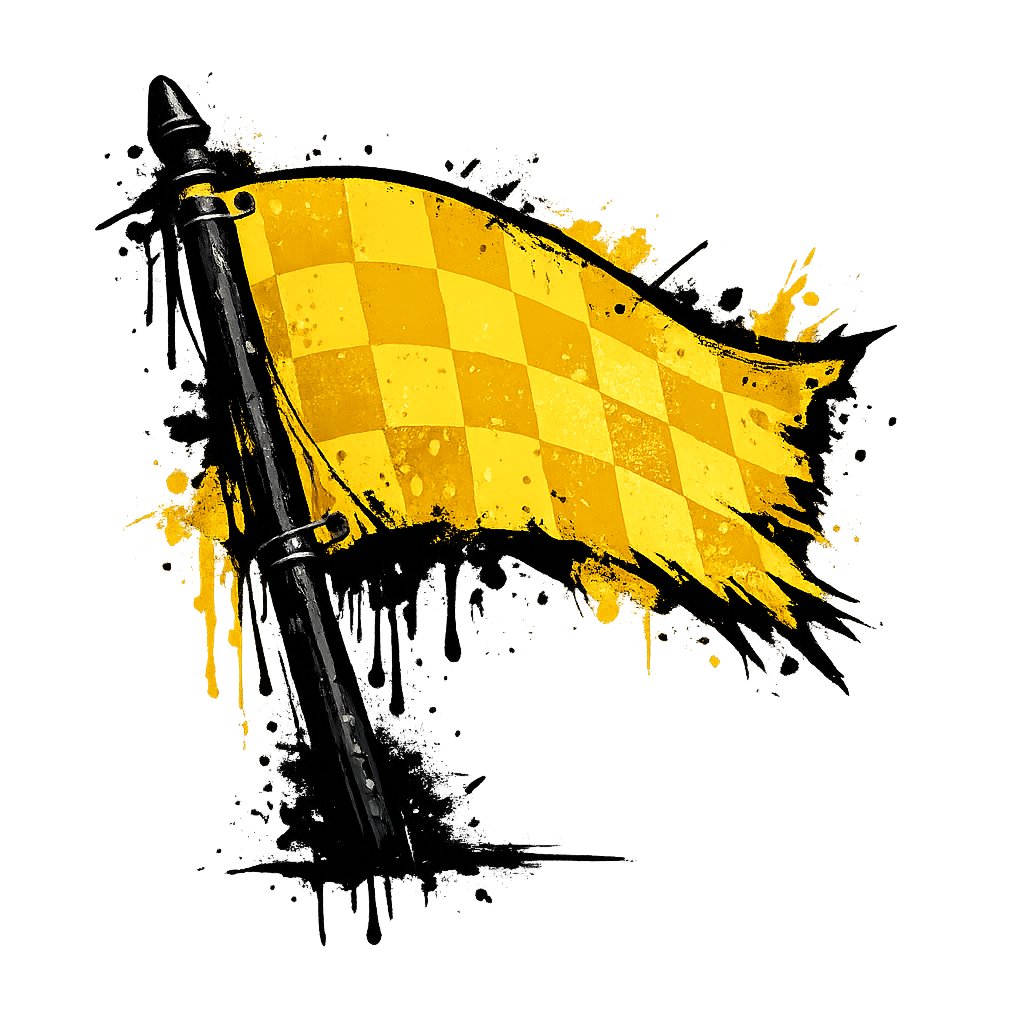
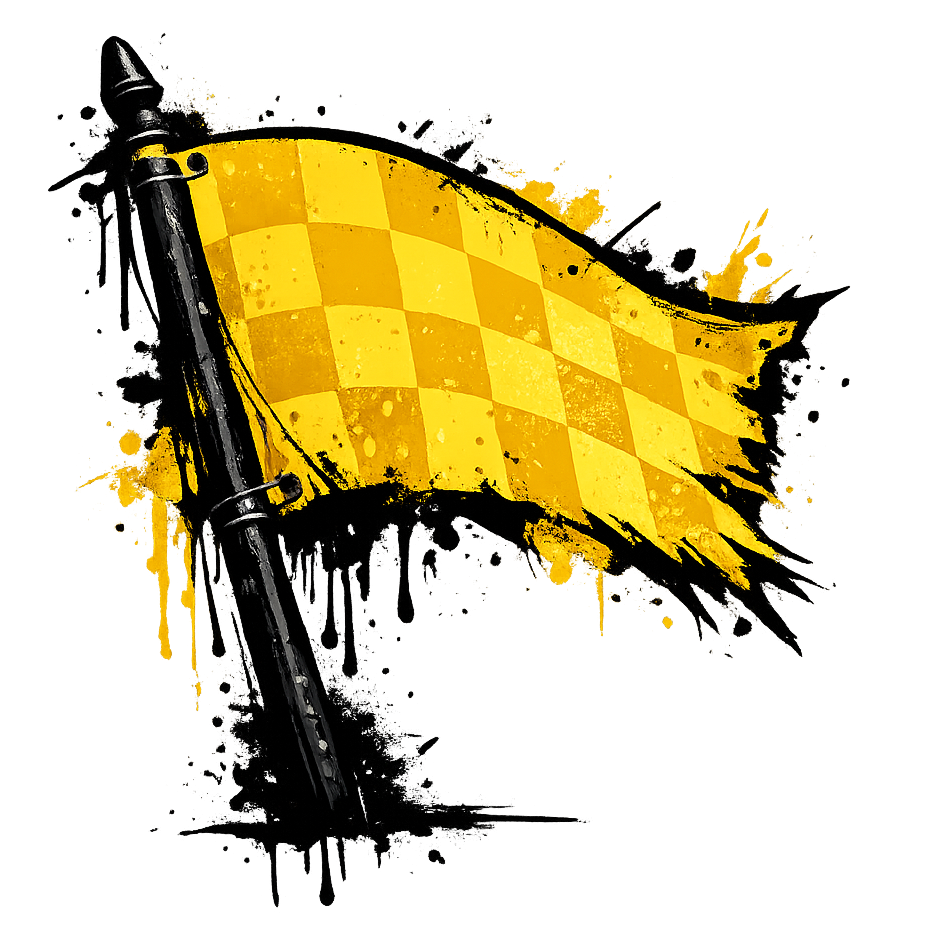
fix / accessibility and display improvements

Changed region(s): [[0.0618, 0.0309, 0.8956, 0.9574]]

diff --git a/src/features/map/components/MapFilters/MapFilters.tsx b/src/features/map/components/MapFilters/MapFilters.tsx
@@ -30,6 +30,17 @@ export function MapFilters({ spotTypes, checkedTypes, setCheckedTypes, showOnlyF
             : setCheckedTypes([]);
     }
 
+    const getTextColor = (type: SpotType) => {
+        if (type === "greenway") return "text-[#bcd004]";
+        else return "text-white";
+    }
+
+    const handleFavorites = () => {
+        const filter = (!showOnlyFavorites)
+        setShowOnlyFavorites(filter);
+        if (filter === true) setCheckedTypes(spotTypes);
+    }
+
     const allChecked = checkedTypes.length === spotTypes.length;
 
     return (
@@ -47,7 +58,7 @@ export function MapFilters({ spotTypes, checkedTypes, setCheckedTypes, showOnlyF
                     </span>
                 </label>
                 {spotTypes.map(type => (
-                    <label className="map-label" key={type}>
+                    <label className={`map-label ${getTextColor(type)}`} key={type}>
                         <input
                             type="checkbox"
                             checked={checkedTypes.includes(type)}
@@ -62,7 +73,7 @@ export function MapFilters({ spotTypes, checkedTypes, setCheckedTypes, showOnlyF
                         <input
                             type="checkbox"
                             checked={showOnlyFavorites}
-                            onChange={() => setShowOnlyFavorites(!showOnlyFavorites)}
+                            onChange={handleFavorites}
                             value={"favorites"}
                         />
                         <span className="text-text-secondary">

diff --git a/src/components/Navbar/Navbar.tsx b/src/components/Navbar/Navbar.tsx
@@ -12,7 +12,6 @@ import "./Navbar.css";
 export function Navbar() {
     const { user, profile, loading } = useAuth();
     const location = useLocation();
-    const getTabIndex = (path: string) => location.pathname === path ? -1 : 0;
     const menuToggleRef = useRef<HTMLInputElement>(null);
     const navigate = useNavigate();
     const [expanded, setExpanded] = useState<boolean>(false)
@@ -22,6 +21,8 @@ export function Navbar() {
             menuToggleRef.current.checked = false;
         }
     }, [location.pathname]);
+
+    const getTabIndex = (path: string) => location.pathname === path ? -1 : 0;
 
     const handleSignOut = async () => {
         await signOut();
@@ -49,7 +50,11 @@ export function Navbar() {
             </label>
             <ul id="main-menu">
                 <li><ThemeToggle /></li>
-                <li><NavLink to="/" tabIndex={getTabIndex("/")}><Home aria-label="Home page" /></NavLink></li>
+                <li>
+                    <NavLink to="/" tabIndex={getTabIndex("/")}>
+                        <Home aria-label="Home page" />
+                    </NavLink>
+                </li>
                 <li className="auth">
                     {user && !loading &&
                         <>

diff --git a/src/features/spot_management/hooks/useSpotForm.tsx b/src/features/spot_management/hooks/useSpotForm.tsx
@@ -17,6 +17,7 @@ export function useSpotForm(isAdding: boolean, spotCoordinates: Coordinates[] | 
     const [error, setError] = useState<boolean>(false);
     const [photoLoading, setPhotoLoading] = useState<boolean>(false);
     const fileInputRef = useRef<HTMLInputElement>(null);
+    const spotTypesRef = useRef<HTMLDivElement>(null);
 
     const [selectedTypes, setSelectedTypes] = useState<SpotType[]>(
         !isAdding && selectedSpot ? selectedSpot.spot_types.map(t => t.name) : []
@@ -52,6 +53,10 @@ export function useSpotForm(isAdding: boolean, spotCoordinates: Coordinates[] | 
         }
         );
     }, [register, spot_types.db_key, traffic_levels.db_key]);
+
+    useEffect(() => {
+        if (errors[spot_types.db_key]) spotTypesRef.current?.scrollIntoView({ behavior: "smooth", block: "nearest" });
+    }, [errors[spot_types.db_key]]);
 
     useEffect(() => {
         setValue(photos.db_key, selectedPhotos);
@@ -111,6 +116,7 @@ export function useSpotForm(isAdding: boolean, spotCoordinates: Coordinates[] | 
         error,
         setError,
         fileInputRef,
+        spotTypesRef,
         hasPhoto,
         handlePhotoChange,
         handlePhotoClear,

diff --git a/src/components/Header/Header.tsx b/src/components/Header/Header.tsx
@@ -2,6 +2,7 @@ import { NavLink } from "react-router";
 import { twMerge } from "tailwind-merge";
 import { tv } from "tailwind-variants";
 import Logo from "../../assets/logo.png";
+import { useSpots } from "../../features/map/hooks/useContexts";
 import { Navbar } from "../Navbar/Navbar";
 import "./Header.css";
 
@@ -20,10 +21,16 @@ const headerVariants = tv({
 });
 
 export function Header({ style = "default", className }: Header) {
+    const { selectedSpot, setSelectedSpot } = useSpots();
+
+    const unSelectSpot = () => {
+        if (!selectedSpot) return;
+        setSelectedSpot(null);
+    }
 
     return (
         <header className={twMerge(headerVariants({ style }), className)}>
-            <NavLink to="/" className="pointer-events-auto">
+            <NavLink to="/" className="pointer-events-auto" tabIndex={0} onClick={unSelectSpot}>
                 <img className="logo-img" src={Logo} alt="RollerScape logo" /></NavLink>
             <Navbar />
         </header>

diff --git a/src/features/spot_management/components/SpotForm/SpotForm.tsx b/src/features/spot_management/components/SpotForm/SpotForm.tsx
@@ -34,6 +34,7 @@ export function SpotForm({ isAdding, spotCoordinates, onSubmit }: SpotForm) {
         error,
         setError,
         fileInputRef,
+        spotTypesRef,
         hasPhoto,
         handlePhotoChange,
         handlePhotoClear,
@@ -87,7 +88,7 @@ export function SpotForm({ isAdding, spotCoordinates, onSubmit }: SpotForm) {
                 </label>
                 <fieldset>
                     <legend className="md:pt-1 mb-0.5">{spot_types.label}: <span className="text-text">(Select all that apply)</span></legend>
-                    <div className="cards-grid">
+                    <div className="cards-grid" ref={spotTypesRef}>
                         {SPOT_TYPES.map(type => (
                             <IconInput
                                 key={type.value}

diff --git a/src/components/ProfileLinkCard/ProfileLinkCard.tsx b/src/components/ProfileLinkCard/ProfileLinkCard.tsx
@@ -6,10 +6,11 @@ import "./ProfileLinkCard.css";
 
 export function ProfileLinkCard({ profile }: { profile: UserProfile }) {
     const location = useLocation();
+    const getTabIndex = (path: string) => location.pathname === path ? -1 : 0;
     if (!profile) return;
 
     return (
-        <NavLink to="/profile" aria-label="Go to profile page" className="card profile-link-card bg-blur slight-shadow">
+        <NavLink to="/profile" tabIndex={getTabIndex("/profile")} aria-label="Go to profile page" className="card profile-link-card bg-blur slight-shadow">
             <div className="image-container">
                 <img src={showAvatar(profile)} alt="Profile avatar" className="profile-avatar" onError={(e) => {
                     const img = e.currentTarget;

diff --git a/src/features/map/components/FlyToSpot/FlyToSpot.tsx b/src/features/map/components/FlyToSpot/FlyToSpot.tsx
@@ -19,7 +19,7 @@ export function FlyToSpot({ spot }: { spot: SpotFullInfo | null }) {
             map.flyTo([spot.coordinates[0].lat, spot.coordinates[0].lon], map.getZoom());
         } else {
             const bounds = spot.coordinates.map(coords => [coords.lat, coords.lon] as MapCoordinates);
-            map.fitBounds(bounds, { padding: [30, 30] });
+            map.fitBounds(bounds, { padding: [80, 80] });
         }
     }, [spot]);
 

diff --git a/src/features/map/components/SpotMarker/SpotMarker.tsx b/src/features/map/components/SpotMarker/SpotMarker.tsx
@@ -19,7 +19,7 @@ export function SpotMarker({ spot, position, dimmed, onMarkerClick }: SpotMarker
         iconUrl: spot.location_type === "point" ? Wheel : Flag,
         iconSize: [35, 35],
         iconAnchor: [21, 18],
-        className: "spot-marker"
+        className: `spot-marker ${spot.spot_types[0].name === "greenway" && "hue-rotate-20"}`
     });
 
     return (

diff --git a/src/features/theme/component/ThemeToggle.css b/src/features/theme/component/ThemeToggle.css
@@ -3,6 +3,14 @@
  .theme-switcher {
      @apply relative flex items-center gap-0.5 cursor-pointer;
 
+     &:focus-within {
+         outline-width: 2px;
+         outline-style: solid;
+         outline-offset: 4px;
+         outline-color: var(--color-text-secondary);
+         border-radius: 5px;
+     }
+
      &:hover {
          transform: scale(1.05);
      }

diff --git a/src/features/theme/component/ThemeToggle.tsx b/src/features/theme/component/ThemeToggle.tsx
@@ -15,6 +15,7 @@ export function ThemeToggle() {
         className="theme-checkbox"
         onChange={toggleTheme}
         defaultChecked={theme === "dark"}
+        tabIndex={0}
       />
       <div className="switcher-track">
         <div className="switcher-thumb">

diff --git a/src/styles/index.css b/src/styles/index.css
@@ -155,6 +155,10 @@
   input {
     @apply border border-border;
 
+    &::placeholder {
+      @apply text-sm;
+    }
+
     &:not([type="checkbox"], [type="radio"]) {
       @apply rounded-lg font-main font-medium text-base px-1 py-0.5 w-full;
     }
